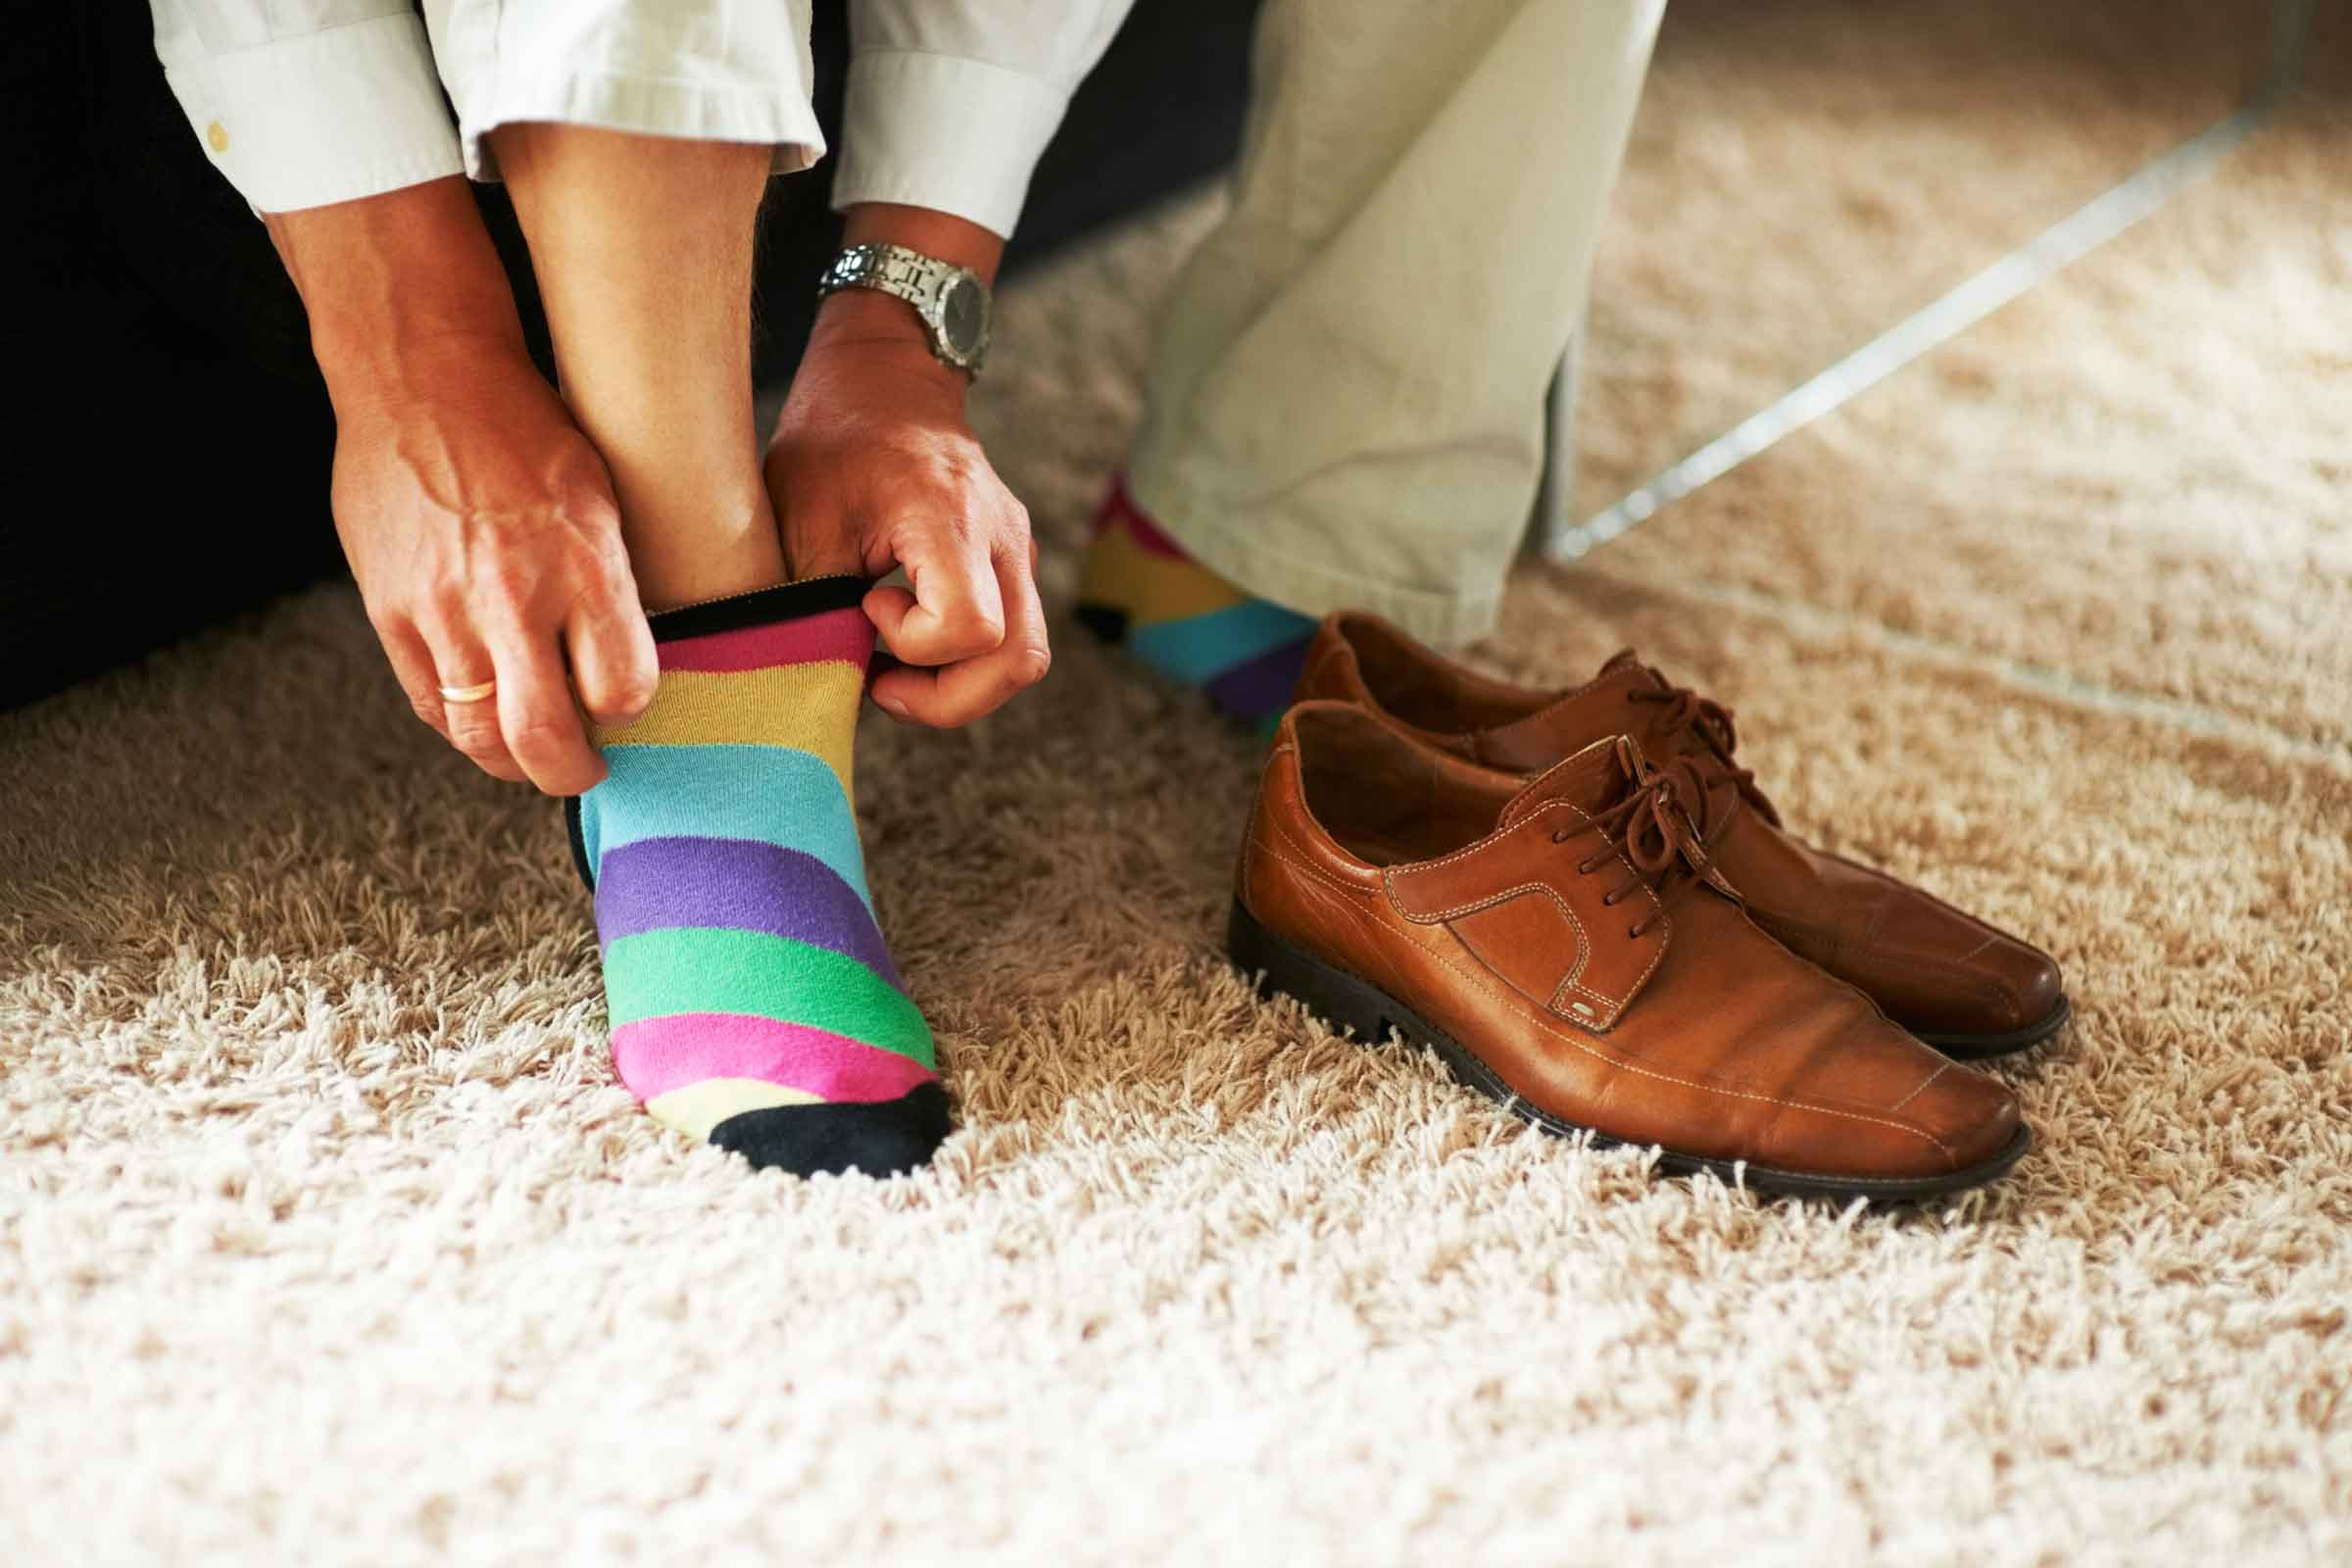
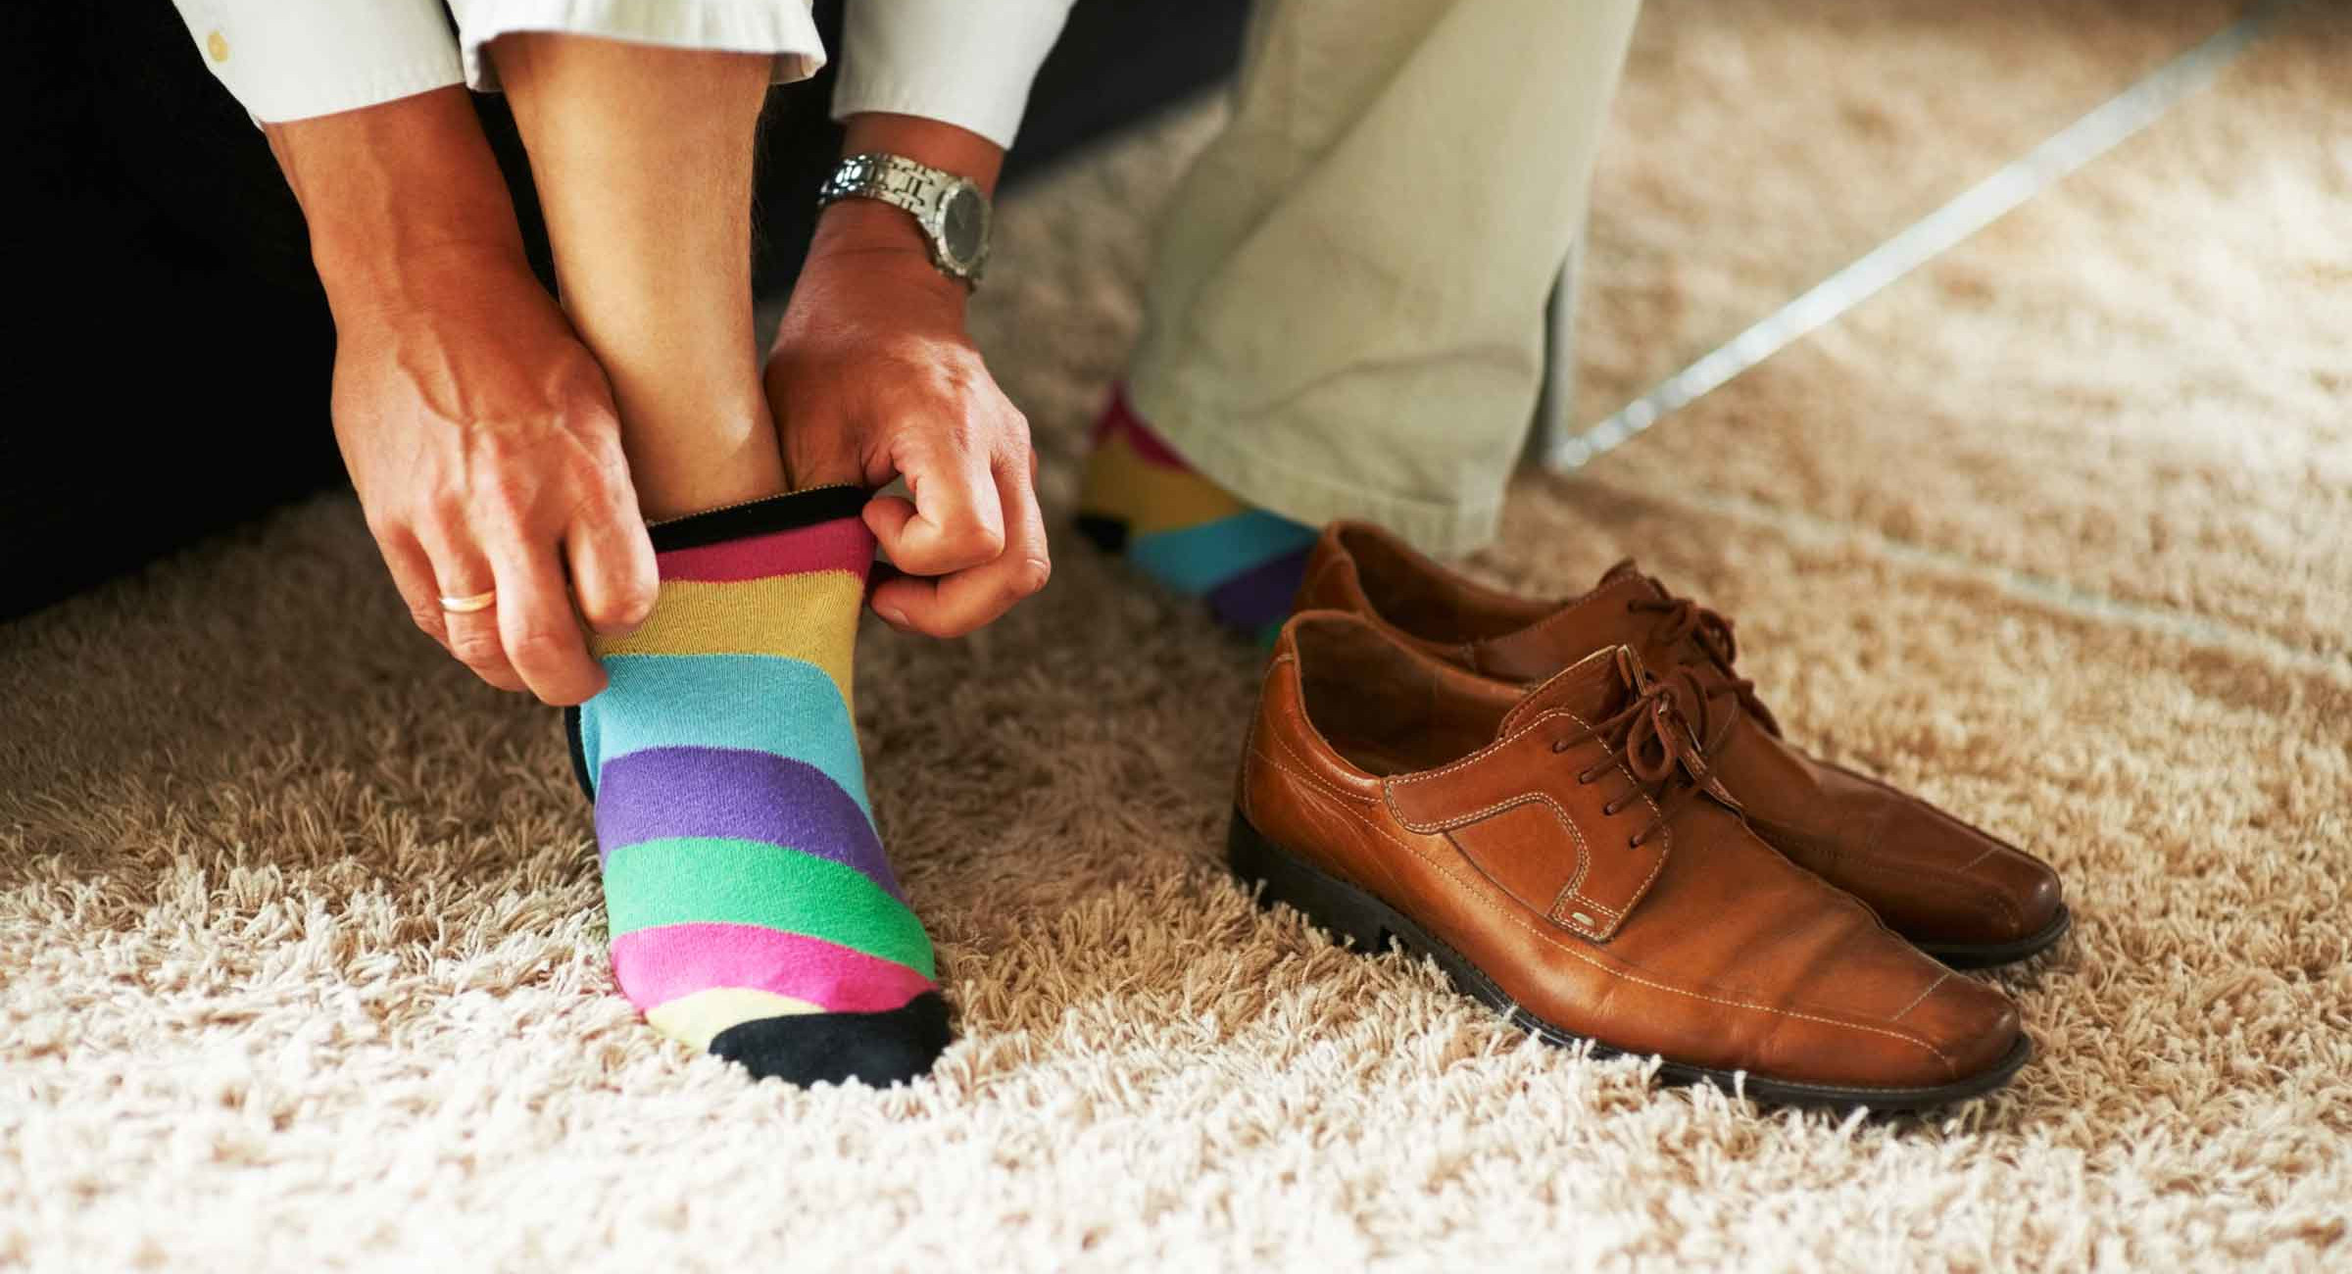
ajout police

diff --git a/projet.css b/projet.css
@@ -3,19 +3,26 @@ body{
 	font-family: 'Muli', sans-serif;
 	font-size: 16pt;
 	background-color: #000000;
+	text-shadow: 2px -2px black;
 }
 h2{
-	font-size: 2.3em;
+	font-size: 2em;
 	padding-bottom: 10px;
+	font-family: 'Holtwood One SC', serif;
+	text-shadow: 5px -5px black;
 }
-header, #organiser, #pourquoi, #edition_passee, #presse{
+#organiser, #pourquoi, #edition_passee, #presse{
 	/*padding-top: 150px;*/
-	padding-top: 130px;
+	padding-top: 150px;
+	padding-bottom: 100px;
+
 }
 h1{
 	font-size: 2.80em;
 	color: #FFFFFF;
-	background-color: rgba(0,0,0,0.15);
+	font-family: 'Holtwood One SC', serif;
+	text-shadow: 5px -5px black;
+
 }
 /*buttons*/
 button, .btn{
@@ -36,7 +43,11 @@ button a, button.btn, a.btn{
 header{
 	background-image: url(images/banniere.jpg);
 	background-size: cover;
-	background-position: 80%;
+	background-position: 100%;
+	padding-top: 100px;
+	padding-bottom: 100px;
+
+
 }
 /*pourquoi*/
 article#pourquoi{
@@ -65,6 +76,7 @@ article#presse{
 
 #presse .card{
 	color: #000000;
+	text-shadow: none;
 }
 /*carte*/
 /*qsn*/
@@ -82,8 +94,8 @@ article#presse{
 footer{
 	background-color: #222222;
 	color: #FFFFFF;
-	padding-top: 25px;
-	padding-bottom: 15px;
+	padding-top: 10px;
+	font-size: 1em;
 }
 footer a{
 	color: #FFFFFF;

diff --git a/index.html b/index.html
@@ -12,6 +12,7 @@
 
     <link rel="stylesheet" type="text/css" media="screen" href="projet.css" />
     <link href="https://fonts.googleapis.com/css?family=Muli" rel="stylesheet">
+    <link href="https://fonts.googleapis.com/css?family=Holtwood+One+SC" rel="stylesheet"> 
     <title>Journée Mondiale du Travail sans Chaussures</title>
 </head>
 
@@ -45,9 +46,9 @@
     </nav>
     <header>
         <div class="container pb-5 text-center">
-            <h1>21 septembre 2018<br />
-                Journée mondiale du travail sans<br />chaussures !<br />
-                (4ème édition)</h1>
+            <h1><strong>21 septembre 2018<br /></strong>
+                <small>Journée mondiale du travail sans chaussures !<br />
+                (4ème édition)</small></h1>
         </div>
     </header>
     </div>
